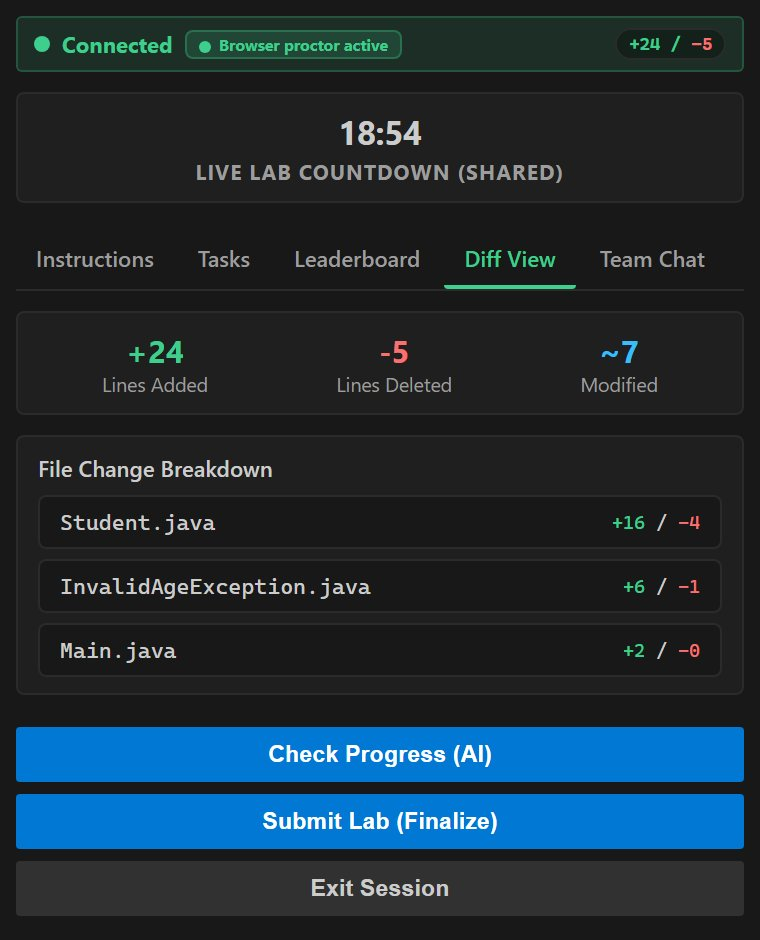
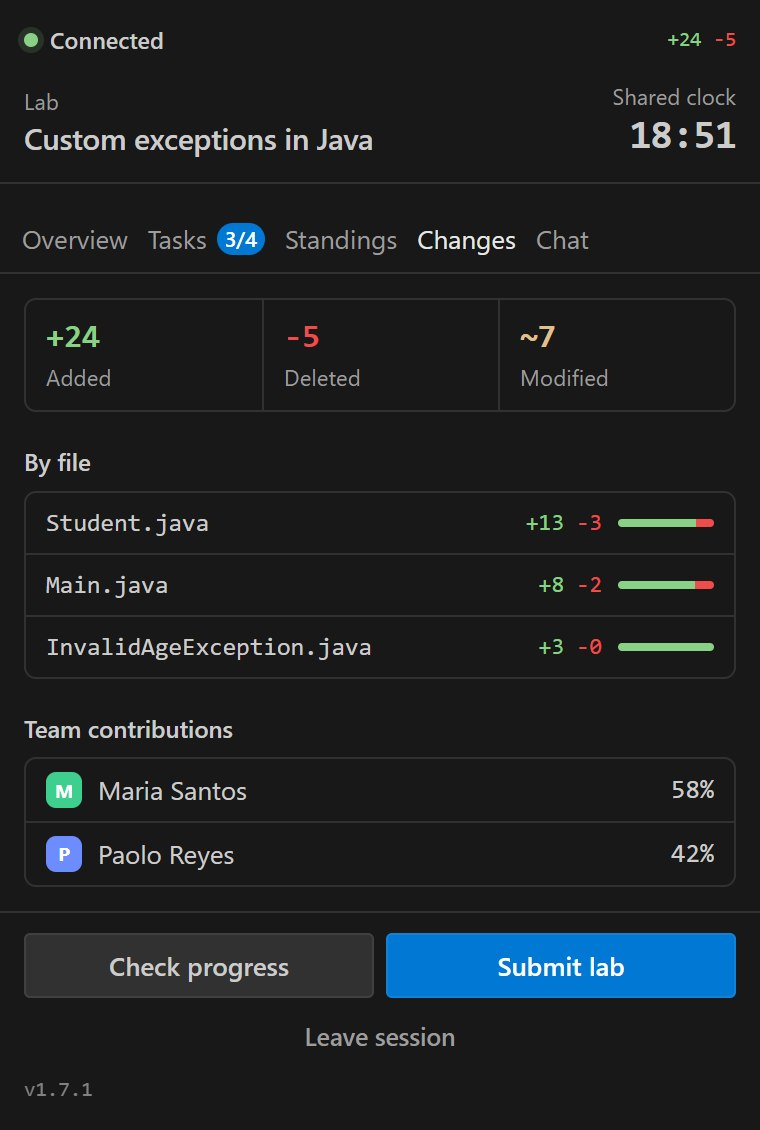
feat(landing): show the redesigned extension sidebar
Replace the four extension screenshots with renders of the current
sidebar (v1.7.1) and rename the panel captions to the new tab names:
Tasks, Standings, Changes and Chat. Update image sizes and alt text,
including the hero's sidebar shot.

diff --git a/resources/views/welcome.blade.php b/resources/views/welcome.blade.php
@@ -187,8 +187,8 @@
                     </div>
                     <div class="hidden lg:block absolute -right-4 xl:-right-10 top-20 w-[300px] panel rounded-xl overflow-hidden p-1">
                         <img src="{{ asset('images/landing/extension-tasks.jpg') }}"
-                             width="760" height="920" decoding="async"
-                             alt="The Certicode sidebar in VS Code: connected, a shared 18:55 countdown, and the lab's four tasks, three completed and one pending."
+                             width="760" height="1016" decoding="async"
+                             alt="The Certicode sidebar in VS Code: connected, a shared 18:51 clock, and the lab's four tasks, three done and one to do."
                              class="block w-full h-auto rounded-lg">
                     </div>
                     <figcaption class="sr-only">The instructor's monitor and a student's VS Code sidebar during the same live lab</figcaption>
@@ -234,37 +234,37 @@
                 <div class="reveal max-w-[720px]">
                     <h2 class="font-display text-4xl sm:text-5xl font-bold leading-[1.05] balance">The whole lab lives inside VS Code.</h2>
                     <p class="mt-5 text-[var(--text-dim)] text-lg leading-relaxed max-w-[56ch] pretty">
-                        The extension adds one sidebar with the tasks, the shared timer, a live leaderboard, their own changes and team chat.
+                        The extension adds one sidebar with the tasks, the shared timer, live standings, their own changes and team chat.
                     </p>
                     <a href="{{ asset('downloads/certicode-labs.vsix') }}" download class="mt-7 inline-flex text-sm font-medium text-[#3ecf8e] link-underline">Download the extension (.vsix)</a>
                 </div>
 
                 <div class="mt-14 -mx-6 px-6 flex gap-5 overflow-x-auto snap-x snap-mandatory pb-4 md:mx-0 md:px-0 md:grid md:grid-cols-4 md:gap-6 md:overflow-visible md:pb-0 items-start">
                     <figure class="reveal shrink-0 w-[72%] sm:w-[44%] md:w-auto snap-start" style="transition-delay:0ms">
-                        <div class="panel rounded-xl overflow-hidden p-1"><img src="{{ asset('images/landing/extension-tasks.jpg') }}" width="760" height="920" loading="lazy" decoding="async" alt="The Tasks tab: four lab tasks, three marked completed and one pending." class="block w-full h-auto rounded-lg"></div>
+                        <div class="panel rounded-xl overflow-hidden p-1"><img src="{{ asset('images/landing/extension-tasks.jpg') }}" width="760" height="1016" loading="lazy" decoding="async" alt="The Tasks tab: a progress bar at 75% and four lab tasks, three done and one to do." class="block w-full h-auto rounded-lg"></div>
                         <figcaption class="mt-4">
                             <span class="block font-semibold">Tasks</span>
                             <span class="block mt-1 text-sm text-[var(--text-dim)] leading-relaxed">Marked off each time the grader checks their code.</span>
                         </figcaption>
                     </figure>
                     <figure class="reveal shrink-0 w-[72%] sm:w-[44%] md:w-auto snap-start" style="transition-delay:90ms">
-                        <div class="panel rounded-xl overflow-hidden p-1"><img src="{{ asset('images/landing/extension-leaderboard.jpg') }}" width="760" height="1400" loading="lazy" decoding="async" alt="The Leaderboard tab during a live lab: seven students ranked by tasks completed, with the shared clock." class="block w-full h-auto rounded-lg"></div>
+                        <div class="panel rounded-xl overflow-hidden p-1"><img src="{{ asset('images/landing/extension-leaderboard.jpg') }}" width="760" height="1406" loading="lazy" decoding="async" alt="The Standings tab during a live lab: seven students ranked by tasks done, with the shared clock." class="block w-full h-auto rounded-lg"></div>
                         <figcaption class="mt-4">
-                            <span class="block font-semibold">Leaderboard</span>
+                            <span class="block font-semibold">Standings</span>
                             <span class="block mt-1 text-sm text-[var(--text-dim)] leading-relaxed">Ranked by tasks done, then by time taken.</span>
                         </figcaption>
                     </figure>
                     <figure class="reveal shrink-0 w-[72%] sm:w-[44%] md:w-auto snap-start" style="transition-delay:180ms">
-                        <div class="panel rounded-xl overflow-hidden p-1"><img src="{{ asset('images/landing/extension-diff.jpg') }}" width="760" height="940" loading="lazy" decoding="async" alt="The Diff View tab: 24 lines added, 5 deleted and 7 modified, broken down across three Java files." class="block w-full h-auto rounded-lg"></div>
+                        <div class="panel rounded-xl overflow-hidden p-1"><img src="{{ asset('images/landing/extension-diff.jpg') }}" width="760" height="1130" loading="lazy" decoding="async" alt="The Changes tab: 24 lines added, 5 deleted and 7 modified, broken down across three Java files, with each teammate's share of the work." class="block w-full h-auto rounded-lg"></div>
                         <figcaption class="mt-4">
-                            <span class="block font-semibold">Diff View</span>
+                            <span class="block font-semibold">Changes</span>
                             <span class="block mt-1 text-sm text-[var(--text-dim)] leading-relaxed">Every line added and removed, file by file.</span>
                         </figcaption>
                     </figure>
                     <figure class="reveal shrink-0 w-[72%] sm:w-[44%] md:w-auto snap-start" style="transition-delay:270ms">
-                        <div class="panel rounded-xl overflow-hidden p-1"><img src="{{ asset('images/landing/extension-chat.jpg') }}" width="760" height="1090" loading="lazy" decoding="async" alt="The Team Chat tab in a pair lab: two students agree who writes checkout(), one sharing a Java snippet." class="block w-full h-auto rounded-lg"></div>
+                        <div class="panel rounded-xl overflow-hidden p-1"><img src="{{ asset('images/landing/extension-chat.jpg') }}" width="760" height="1096" loading="lazy" decoding="async" alt="The Chat tab in a pair lab: two students split the work, one sharing the Java age check as a snippet." class="block w-full h-auto rounded-lg"></div>
                         <figcaption class="mt-4">
-                            <span class="block font-semibold">Team Chat</span>
+                            <span class="block font-semibold">Chat</span>
                             <span class="block mt-1 text-sm text-[var(--text-dim)] leading-relaxed">For pair labs, with code snippets inline.</span>
                         </figcaption>
                     </figure>
